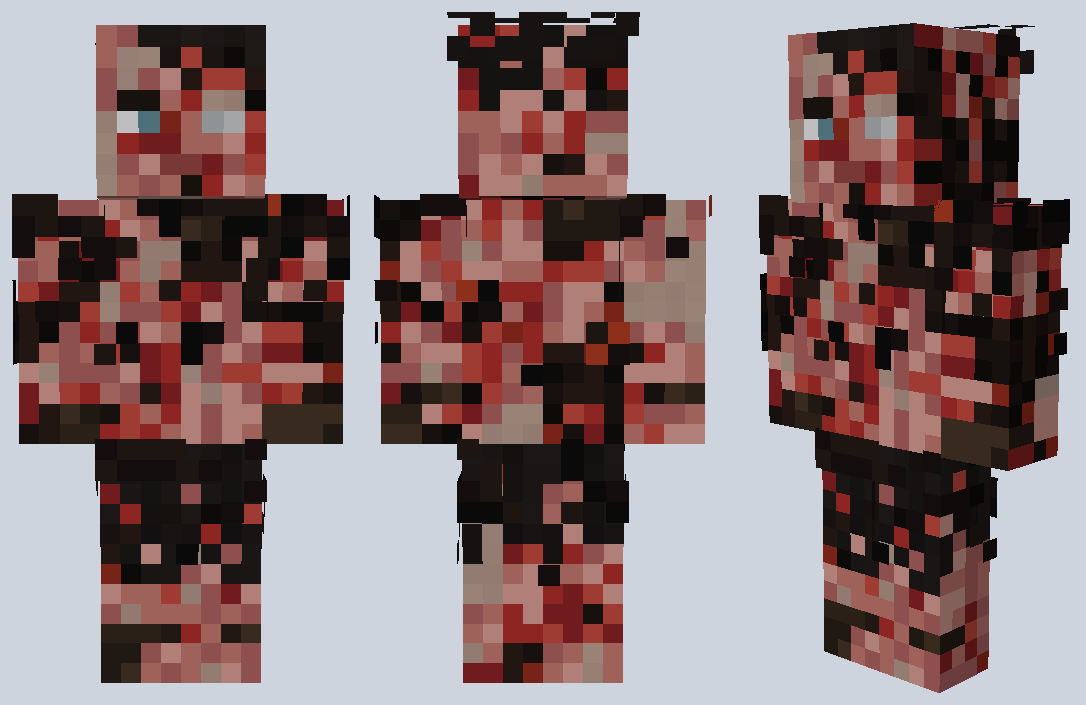
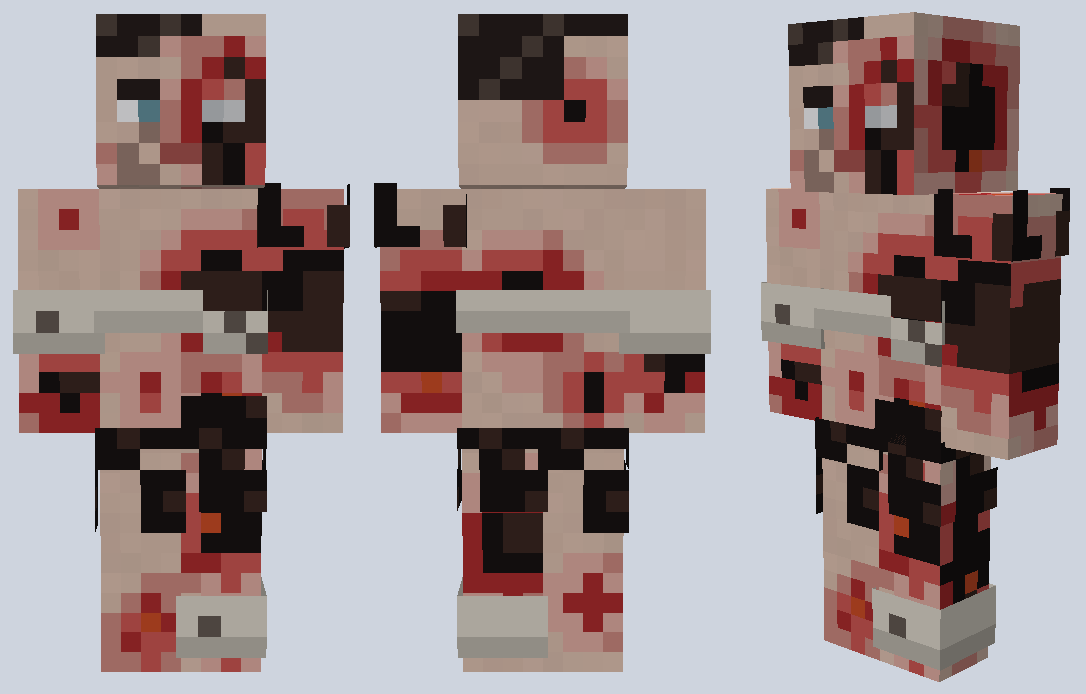
art(bosses): Valet tricorn and queue, structured burn map for Peter

diff --git a/art/bosses/tools/paint_skins.py b/art/bosses/tools/paint_skins.py
@@ -406,121 +406,146 @@ def peter_hale(burned=False):
 
 
 def risen(s):
-    """Peter, burned: third-degree burns dominate. Charred black, red-raw patches and mottled glossy scar
-    tissue, worst on the left side of the face; singed hair; charred trouser rags; only a light film of grave soil."""
-    SKIN = (206, 178, 162)
-    CHAR = [(16, 12, 12), (28, 20, 18), (42, 28, 24)]
-    RAW = [(176, 46, 44), (140, 34, 36), (198, 74, 64)]
-    SCAR = [(198, 122, 114), (176, 100, 98), (220, 160, 150)]
-    for part in ('body', 'rarm', 'larm'):
-        s.fill_part(part, SKIN, 0.04, 5, skin=True)
-    for part in ('rleg', 'lleg'):
-        s.fill_part(part, SKIN, 0.04, 6, skin=True)
+    """Peter, burned (hospital-coma / Season 6 look). Structured burns, 8-colour burn palette:
+    charred black and brown cores with a few ember cracks, raw red and pink wet rims, smooth pale-pink scar
+    tissue, intact skin. Heaviest on the left side of the face (viewer's right), left arm and torso; the right
+    side of the face stays recognisably Peter with dark, partly singed hair. No clothes except burned scraps and
+    gauze bandages (hospital burn-ward look)."""
+    P_INTACT = (214, 186, 170)
+    P_SCAR_L, P_SCAR_M = (218, 168, 158), (198, 132, 124)
+    P_RAW_PINK, P_RAW_RED = (198, 84, 80), (166, 42, 44)
+    P_CHAR_BROWN, P_CHAR_BLACK, P_EMBER = (56, 38, 32), (22, 18, 18), (196, 74, 36)
+    HAIR, HAIR_SINGE = (36, 28, 26), (76, 64, 58)
+    GAUZE, SOOT = (214, 208, 196), (96, 86, 80)
+
+    for part in ('head', 'body', 'rarm', 'larm', 'rleg', 'lleg'):
+        s.fill_part(part, P_INTACT, 0.02, 5, skin=True)
     for part in ('jacket', 'rsleeve', 'lsleeve', 'rpants', 'lpants', 'hat'):
         s.clear_part(part)
 
-    def burn(part, side, lx, ly, bias):
-        fx, fy, fw, fh = s.face(part, side)
-        pos = (fx + lx, fy + ly)
-        if s.px[pos][3] == 0:
-            return
-        f = hsh((fx + lx) // 3, (fy + ly) // 3, 401) * 0.5 + hsh((fx + lx) // 2, (fy + ly) // 2, 402) * 0.32 + hsh(fx + lx, fy + ly, 403) * 0.18 + bias
-        n = int(hsh(fx + lx, fy + ly, 404) * 3) % 3
-        if f < 0.26:
-            c = CHAR[n]
-            if hsh(fx + lx, fy + ly, 405) < 0.1:
-                c = (150, 44, 30)  # ember crack
-        elif f < 0.40:
-            c = RAW[n]
-        elif f < 0.68:
-            c = SCAR[n]
-        else:
-            c = mixc(SKIN, (150, 120, 110), 0.25 + 0.2 * hsh(fx + lx, fy + ly, 406))
-        s.set(part, side, lx, ly, c, 255, False)
+    # burn blobs per face: (cx, cy, radius, strength); level = strength * (1 - dist/radius)
+    B = {
+        ('head', 'front'): [(6.2, 3.8, 4.6, 1.0), (5.5, 6.6, 3.0, 0.9), (1.0, 6.8, 2.2, 0.5), (3.5, 0.5, 2.5, 0.45)],
+        ('head', 'left'): [(3.5, 4.0, 6.0, 1.0)],
+        ('head', 'right'): [(5.0, 6.0, 2.6, 0.5)],
+        ('head', 'top'): [(5.5, 3.5, 4.0, 0.9)],
+        ('head', 'back'): [(5.0, 4.0, 3.6, 0.8)],
+        ('head', 'bottom'): [(5.0, 4.0, 3.5, 0.8)],
+        ('body', 'front'): [(5.5, 4.5, 5.2, 1.0), (2.0, 9.5, 3.4, 0.55), (5.5, 10.0, 3.2, 0.8)],
+        ('body', 'back'): [(2.5, 5.0, 5.0, 0.95), (6.0, 9.5, 3.2, 0.8)],
+        ('body', 'left'): [(2.0, 6.0, 6.5, 1.0)],
+        ('body', 'right'): [(2.0, 5.0, 3.5, 0.6)],
+        ('body', 'top'): [(4.0, 2.0, 3.5, 0.7)],
+        ('larm', 'front'): [(2.0, 5.0, 6.8, 1.0)], ('larm', 'back'): [(2.0, 6.5, 6.5, 1.0)],
+        ('larm', 'left'): [(2.0, 6.0, 7.0, 1.0)], ('larm', 'right'): [(2.0, 5.0, 5.5, 0.9)],
+        ('larm', 'top'): [(2.0, 2.0, 3.0, 0.8)], ('larm', 'bottom'): [(2.0, 2.0, 3.0, 0.9)],
+        ('rarm', 'front'): [(2.0, 9.5, 4.2, 0.85), (2.0, 1.0, 2.6, 0.5)], ('rarm', 'back'): [(2.0, 8.0, 4.5, 0.8)],
+        ('rarm', 'left'): [(2.0, 4.0, 3.5, 0.5)], ('rarm', 'right'): [(2.0, 9.0, 4.0, 0.8)],
+        ('rarm', 'bottom'): [(2.0, 2.0, 3.0, 0.8)],
+        ('lleg', 'front'): [(2.0, 4.0, 5.5, 0.9), (2.0, 10.0, 3.0, 0.7)], ('lleg', 'back'): [(2.0, 5.0, 5.5, 0.9)],
+        ('lleg', 'left'): [(2.0, 6.0, 6.5, 0.95)], ('lleg', 'right'): [(2.0, 8.0, 4.0, 0.7)],
+        ('rleg', 'front'): [(2.0, 9.5, 3.8, 0.7)], ('rleg', 'back'): [(2.0, 8.0, 4.0, 0.6)],
+        ('rleg', 'right'): [(2.0, 8.5, 4.0, 0.6)], ('rleg', 'left'): [(2.0, 4.0, 3.0, 0.4)],
+    }
 
-    def burn_part(part, sides, bias_fn):
-        for side in sides:
+    def level(part, side, lx, ly):
+        fx, fy, fw, fh = s.face(part, side)
+        best = 0.0
+        for cx, cy, r, st in B.get((part, side), []):
+            d = ((lx - cx) ** 2 + (ly - cy) ** 2) ** 0.5
+            best = max(best, st * (1.0 - d / r))
+        return best + (hsh((fx + lx) // 3, (fy + ly) // 3, 501) - 0.5) * 0.08
+
+    def burn_color(part, side, lx, ly):
+        fx, fy, fw, fh = s.face(part, side)
+        L = level(part, side, lx, ly)
+        gx, gy = fx + lx, fy + ly
+        if L > 0.62:
+            if 0.62 < L < 0.8 and hsh(gx, gy, 502) < 0.1:
+                return P_EMBER
+            return P_CHAR_BROWN if hsh(gx // 2, gy // 2, 503) < 0.4 else P_CHAR_BLACK
+        if L > 0.42:
+            return P_RAW_RED if hsh(gx // 2, gy // 2, 504) < 0.45 else P_RAW_PINK
+        if L > 0.22:
+            return P_SCAR_M if hsh(gx // 3, gy // 3, 505) < 0.45 else P_SCAR_L
+        return None
+
+    for part in ('head', 'body', 'rarm', 'larm', 'rleg', 'lleg'):
+        for side in ('top', 'bottom', 'right', 'front', 'left', 'back'):
             fx, fy, fw, fh = s.face(part, side)
             for ly in range(fh):
                 for lx in range(fw):
-                    burn(part, side, lx, ly, bias_fn(side, lx, ly, fw, fh))
-
-    # head: the character's left side of the face (viewer's right) is the ruined one
-    def head_bias(side, lx, ly, fw, fh):
-        b = 0.0
-        if side == 'front':
-            if ly in (3, 4) and lx in (1, 2, 5, 6):
-                return 9.0  # leave brows and eyes (set below)
-            if ly == 6 and lx in (3, 4):
-                return 9.0  # lips
-            b = -0.24 if lx >= 4 else 0.04
-        elif side == 'left':
-            b = -0.28
-        elif side == 'right':
-            b = 0.08
-        elif side == 'top':
-            b = -0.1
-        return b
-    burn_part('head', ('top', 'bottom', 'right', 'front', 'left', 'back'), head_bias)
-    # eyes: right one intact, left one clouded; lips stay readable
+                    if part == 'head' and side == 'front' and ((ly in (3, 4) and lx in (1, 2, 5, 6)) or (ly == 6 and lx in (3, 4))):
+                        continue
+                    c = burn_color(part, side, lx, ly)
+                    if c is not None:
+                        s.set(part, side, lx, ly, c, 255, False)
+    # face details: intact right eye, clouded left eye, brows, lips
     s.set('head', 'front', 1, 4, WHITE); s.set('head', 'front', 2, 4, (96, 140, 152))
-    s.set('head', 'front', 5, 4, (178, 184, 188)); s.set('head', 'front', 6, 4, (204, 206, 208))
-    s.set('head', 'front', 1, 3, (30, 22, 18)); s.set('head', 'front', 2, 3, (30, 22, 18))
-    s.set('head', 'front', 3, 6, (150, 70, 66)); s.set('head', 'front', 4, 6, (150, 70, 66))
-    # singed hair: short charred remnants on the right side, scalp scarring on the left
-    for lx in range(8):
-        for ly in range(1 + lx % 2):
-            if hsh(lx, ly, 410) < 0.7:
-                s.set('head', 'front', lx, ly, shade((34, 28, 26), 0.9 + 0.3 * hsh(lx, ly, 411)))
-    for lx in range(0, 4):
+    s.set('head', 'front', 5, 4, (186, 190, 194)); s.set('head', 'front', 6, 4, (206, 208, 210))
+    s.set('head', 'front', 1, 3, HAIR); s.set('head', 'front', 2, 3, HAIR)
+    s.set('head', 'front', 5, 3, P_RAW_PINK); s.set('head', 'front', 6, 3, P_SCAR_M)
+    s.set('head', 'front', 3, 6, (160, 80, 76)); s.set('head', 'front', 4, 6, (160, 80, 76))
+    # hair: dark on the right side, partly singed (grey-brown tips); scalp on the left is burned bare
+    for lx in range(0, 5):
+        for ly in range(0, 2 if lx < 3 else 1):
+            s.set('head', 'front', lx, ly, HAIR if (lx + ly) % 3 else HAIR_SINGE)
+    for lx in range(0, 5):
         for ly in range(8):
-            if hsh(lx, ly, 412) < 0.6:
-                s.set('head', 'top', lx, ly, shade((30, 24, 22), 0.9 + 0.3 * hsh(lx, ly, 413)))
-    for ly in range(0, 4):
-        for lx in range(8):
-            if hsh(lx, ly, 414) < 0.45:
-                s.set('head', 'back', lx, ly, (26, 22, 22))
-    for ly in range(0, 2):
-        for lx in range(8):
-            if hsh(lx, ly, 415) < 0.3:
-                s.set('hat', 'top', lx, ly, (22, 20, 20))
-                s.set('hat', 'back', lx, ly, (28, 24, 22))
-    # torso and arms: worst on the left side (viewer's right) and at the hands
-    burn_part('body', ('top', 'bottom', 'right', 'front', 'left', 'back'), lambda side, lx, ly, fw, fh: -0.06 + (-0.12 if (side == 'front' and lx >= 4) else 0) + 0.1 * (ly / fh) * 0)
-    burn_part('rarm', ('top', 'bottom', 'right', 'front', 'left', 'back'), lambda side, lx, ly, fw, fh: -0.02 - (0.18 if ly >= 9 else 0))
-    burn_part('larm', ('top', 'bottom', 'right', 'front', 'left', 'back'), lambda side, lx, ly, fw, fh: -0.14 - (0.18 if ly >= 9 else 0))
-    # legs: charred trouser rags above, burned skin below
-    for part in ('rleg', 'lleg'):
-        burn_part(part, ('top', 'bottom', 'right', 'front', 'left', 'back'), lambda side, lx, ly, fw, fh: -0.08)
+            s.set('head', 'top', lx, ly, HAIR if ly % 4 else HAIR_SINGE)
+    for lx in range(0, 8):
+        for ly in range(0, 4):
+            if lx < 5 or ly < 1:
+                s.set('head', 'back', lx, ly, HAIR if (lx + ly) % 4 else HAIR_SINGE)
+    for lx in range(0, 6):
+        for ly in range(0, 3):
+            s.set('head', 'right', lx, ly, HAIR if ly < 2 else HAIR_SINGE)
+    # light stubble on the intact right jaw only
+    for ly in (5, 6, 7):
+        for lx in (0, 1, 2):
+            if hsh(lx, ly, 510) < 0.55:
+                s.set('head', 'front', lx, ly, (150, 122, 112))
+    # burned scraps and gauze: second layer
+    # torso: charred remnant of a shirt over the left hip, gauze wrap across the chest
+    for ly in range(8, 12):
+        for lx in range(4, 8):
+            if hsh(lx // 2, ly // 2, 512) < 0.75:
+                s.set('jacket', 'front', lx, ly, P_CHAR_BLACK if hsh(lx, ly, 513) < 0.6 else P_CHAR_BROWN)
+    for lx in range(0, 8):
+        s.set('jacket', 'front', lx, 5 + (1 if lx > 4 else 0), GAUZE); s.set('jacket', 'front', lx, 6 + (1 if lx > 4 else 0), shade(GAUZE, 0.88))
+    for side in ('left', 'right'):
+        for lx in range(4):
+            s.set('jacket', side, lx, 5, GAUZE); s.set('jacket', side, lx, 6, shade(GAUZE, 0.88))
+    for lx in range(0, 8):
+        s.set('jacket', 'back', lx, 5, GAUZE); s.set('jacket', 'back', lx, 6, shade(GAUZE, 0.88))
+    s.set('jacket', 'front', 6, 6, SOOT); s.set('jacket', 'front', 7, 7, SOOT)
+    # right forearm: gauze wrap; left sleeve: a charred scrap at the shoulder
+    for side in SIDES:
+        fw = s.face('rsleeve', side)[2]
+        for lx in range(fw):
+            for ly in (5, 6, 7):
+                s.set('rsleeve', side, lx, ly, GAUZE if ly != 7 else shade(GAUZE, 0.85))
+    s.set('rsleeve', 'front', 1, 6, SOOT)
+    for side in SIDES:
+        fw = s.face('lsleeve', side)[2]
+        for lx in range(fw):
+            for ly in range(0, 3):
+                if hsh(lx, ly, 514) < 0.8:
+                    s.set('lsleeve', side, lx, ly, P_CHAR_BLACK if hsh(lx, ly, 515) < 0.6 else P_CHAR_BROWN)
+    # legs: charred scraps of trousers at the hips and left thigh, gauze round the left shin
+    for part in ('rpants', 'lpants'):
         for side in SIDES:
             fw = s.face(part, side)[2]
-            for ly in range(0, 7):
+            for ly in range(0, 5):
                 for lx in range(fw):
-                    if hsh(lx, ly, 420 + len(side)) > ly * 0.1:
-                        s.set(part, side, lx, ly, shade((26, 22, 22), 0.9 + 0.5 * hsh(lx, ly, 421)))
-    # second layer: charred tatters of the shirt, coat and trousers, still glowing in places
-    TAT = [(14, 12, 12), (24, 18, 16), (36, 26, 22)]
-    for part, rows, p in (('jacket', 12, 0.34), ('rsleeve', 8, 0.4), ('lsleeve', 7, 0.4), ('rpants', 7, 0.34), ('lpants', 7, 0.42)):
-        for side in SIDES:
-            fx, fy, fw, fh = s.face(part, side)
-            for ly in range(rows):
-                for lx in range(fw):
-                    n = hsh((fx + lx) // 2, (fy + ly) // 2, 430) * 0.6 + hsh(fx + lx, fy + ly, 431) * 0.4
-                    if n < p * (1.3 - ly / max(1, rows)) * (0.9 if part == 'jacket' else 1.0):
-                        c = TAT[int(hsh(fx + lx, fy + ly, 432) * 3) % 3]
-                        if hsh(fx + lx, fy + ly, 433) < 0.07:
-                            c = (176, 60, 34)
-                        s.set(part, side, lx, ly, c)
-    # light film of grave soil on the lower legs, hands and shoulders only
-    MUD = [(40, 30, 24), (54, 40, 30), (70, 52, 38)]
-    for part in ('rleg', 'lleg', 'rarm', 'larm', 'body'):
-        for side in ('right', 'front', 'left', 'back'):
-            fx, fy, fw, fh = s.face(part, side)
-            for ly in range(fh):
-                for lx in range(fw):
-                    low = ly >= 9 if part != 'body' else ly <= 1
-                    if s.px[fx + lx, fy + ly][3] and low and hsh((fx + lx) // 2, (fy + ly) // 2, 440) < 0.35:
-                        s.set(part, side, lx, ly, MUD[int(hsh(fx + lx, fy + ly, 441) * 3) % 3])
+                    if hsh((lx + (0 if part == 'rpants' else 7)) // 2, ly // 2, 516) < (0.85 - ly * 0.14) * (1.0 if part == 'lpants' else 0.7):
+                        s.set(part, side, lx, ly, P_CHAR_BLACK if hsh(lx, ly, 517) < 0.65 else P_CHAR_BROWN)
+    for side in SIDES:
+        fw = s.face('lpants', side)[2]
+        for lx in range(fw):
+            for ly in (8, 9, 10):
+                s.set('lpants', side, lx, ly, GAUZE if ly != 10 else shade(GAUZE, 0.85))
+    s.set('lpants', 'front', 1, 9, SOOT)
 
 
 def kol():
@@ -810,26 +835,33 @@ def sebastien_valet():
     tricorn, greyish-white coat with blue cuffs, buff waistcoat, black cravat, buff breeches, black gaiters."""
     s = Skin(False, 909)
     SK, HAIR = (214, 170, 136), (52, 36, 28)
-    head(s, SK, HAIR, (84, 58, 40), brow=(40, 28, 22), lips=(168, 92, 82), hair_rows=1, fringe=0.4, back_rows=6, side_rows=4, hair_amp=0.12)
-    stubble(s, SK, 0.5)
-    for ly in (6, 7):  # light stubble and a shaved chin line
-        for lx in (2, 5):
-            s.set('head', 'front', lx, ly, mixc(SK, (92, 66, 52), 0.35), skin=True)
-    # natural hair, queued at the nape with a black ribbon
-    for ly in range(5, 8):
-        s.set('hat', 'back', 3, ly, shade(HAIR, 1.1 if ly % 2 else 0.9)); s.set('hat', 'back', 4, ly, shade(HAIR, 0.9 if ly % 2 else 1.1))
-    s.rect('hat', 'back', 3, 4, 2, 1, (22, 20, 24))
-    # black tricorn: felt crown, silver-white lace edge, brass-and-white cockade
-    FELT, LACE, COCK = (28, 26, 30), (212, 210, 204), (226, 222, 214)
+    head(s, SK, HAIR, (84, 58, 40), brow=(40, 28, 22), lips=(168, 92, 82), hair_rows=1, fringe=0.4, back_rows=4, side_rows=4, hair_amp=0.12)
+    stubble(s, SK, 0.22)  # light stubble only
+    # natural hair pulled back and tied into a queue (ponytail): black ribbon at the nape, tail hangs on the coat back
+    RIB = (20, 18, 22)
+    for lx in (3, 4):
+        for ly in range(4, 8):
+            s.set('hat', 'back', lx, ly, shade(HAIR, 0.85 + 0.3 * ((lx + ly) % 2)))
+    s.rect('hat', 'back', 3, 4, 2, 1, RIB); s.set('hat', 'back', 2, 4, shade(RIB, 1.8)); s.set('hat', 'back', 5, 4, shade(RIB, 1.8))  # ribbon and bow
+    # tricorn: black felt, silver-white lace edge, three upturned points (front and both back corners)
+    FELT, LACE, COCK = (26, 24, 28), (226, 224, 218), (240, 238, 232)
+    edge = {'front': [3, 2, 2, 1, 1, 2, 2, 3], 'back': [3, 3, 2, 1, 1, 2, 3, 3],
+            'right': [1, 2, 3, 3, 3, 3, 2, 1], 'left': [1, 2, 3, 3, 3, 3, 2, 1]}
+    for side, prof in edge.items():
+        for lx in range(8):
+            e = prof[lx]
+            for ly in range(0, e + 1):
+                if ly == e and e > 0:
+                    s.set('hat', side, lx, ly, LACE)
+                elif ly < e:
+                    s.set('hat', side, lx, ly, shade(FELT, 1.0 + 0.12 * hsh(lx, ly, 3)))
     for lx in range(8):
         for ly in range(8):
-            s.set('hat', 'top', lx, ly, shade(FELT, 1.0 + 0.15 * hsh(lx, ly, 3)))
-        s.set('hat', 'front', lx, 0, FELT); s.set('hat', 'front', lx, 1, FELT)
-    for side in ('right', 'left', 'back'):
-        for lx in range(8):
-            s.set('hat', side, lx, 0, FELT); s.set('hat', side, lx, 1, FELT); s.set('hat', side, lx, 2, LACE if lx % 2 == 0 else FELT)
-    s.rect('hat', 'right', 5, 0, 2, 2, COCK); s.set('hat', 'right', 6, 1, (190, 154, 64))
-    s.rect('hat', 'left', 1, 0, 2, 2, COCK); s.set('hat', 'left', 1, 1, (190, 154, 64))
+            border = lx in (0, 7) or ly in (0, 7)
+            s.set('hat', 'top', lx, ly, LACE if border else shade(FELT, 1.0 + 0.12 * hsh(lx, ly, 4)))
+    for lx in range(1, 7):  # crown fold lines on top
+        s.set('hat', 'top', lx, 3, shade(FELT, 1.5)); s.set('hat', 'top', lx, 4, shade(FELT, 1.5))
+    s.rect('hat', 'right', 5, 0, 2, 2, COCK); s.set('hat', 'right', 6, 1, (190, 154, 64))  # cockade
     COAT, CUFF, BUTTON, WAIST, BREECH = (190, 182, 162), (52, 76, 124), (192, 156, 66), (204, 184, 138), (196, 180, 150)
     CRAV, GAIT = (30, 28, 34), (30, 28, 30)
     body_cloth(s, WAIST, amp=0.05, seed=91, weave=1)
@@ -865,6 +897,11 @@ def sebastien_valet():
     for side in ('right', 'left', 'back'):
         s.hband('jacket', 11, shade(COAT, 0.85), sides=(side,))
     s.rect('jacket', 'back', 3, 6, 2, 6, CUFF)  # blue-lined back vent
+    for ly in range(0, 6):  # the queue hanging over the collar
+        for lx in (3, 4):
+            s.set('jacket', 'back', lx, ly, shade(HAIR, 0.85 + 0.3 * ((lx + ly) % 2)))
+    s.rect('jacket', 'back', 2, 5, 4, 1, RIB)
+    s.set('jacket', 'back', 2, 6, RIB); s.set('jacket', 'back', 5, 6, RIB)
     # white buff-leather cross-belt and a black cartridge box on the left hip
     BELT = (226, 218, 198)
     for i in range(9):

diff --git a/art/bosses/README.md b/art/bosses/README.md
@@ -21,8 +21,8 @@ All art is original. Wikis, show descriptions and fan skins were used as inspira
 | `freya.png` | **slim arms** | brown leather jacket over a charcoal top, dark jeans, black boots; long dirty-blonde hair, green eyes, smoky liner | pendant on a cord. Possible future NPC/boss |
 | `deucalion_human.png` | player | dark charcoal knit sweater with vertical ribs, lighter grey textured shawl collar and shoulder panels, dark trousers; short swept dirty-blond hair, blue eyes | no coat, cane or glasses |
 | `peter_hale.png` | player | camel wool overcoat (lapels, open) over a dark grey herringbone waistcoat and a white open-collar shirt, dark trousers; slicked-back dark hair, short trimmed beard and stubble (mouth visible), blue-green eyes | coat to knee level on the pants layers, charcoal trousers and dark shoes below |
-| `peter_hale_burned.png` | player | third-degree burns dominate: charred black patches with ember cracks, red-raw skin, mottled glossy scar tissue; worst on the left side of the face (viewer's right), one clouded eye | singed hair remnants, charred trouser rags and tatters on the second layer, only a light film of grave soil on the lower legs, hands and shoulders |
-| `sebastien_valet.png` | player | French line-infantry soldier of the 1760s: undyed greyish-white wool coat with blue cuffs and turn-backs and brass buttons, buff waistcoat, black cravat, white buff cross-belt, buff breeches, black gaiters; black tricorn with silver edging; natural dark hair queued with a black ribbon | healthy tan skin, brown eyes, light stubble (no powder wig, no pale vampire look); a little campaign dirt on the coat |
+| `peter_hale_burned.png` | player | hospital-coma / Season 6 burn look, 8-colour burn palette: charred black and brown cores with ember cracks, raw red and pink rims, smooth pale-pink scar tissue, intact skin | burns are connected regions, heaviest on the left side of the face (viewer's right, clouded eye), left arm and torso; right face stays recognisably Peter with dark, partly singed hair. No clothes except burned scraps (left hip, shoulder, thighs) and gauze bandages (chest, right forearm, left shin), all on the second layer |
+| `sebastien_valet.png` | player | French line-infantry soldier of the 1760s: undyed greyish-white wool coat with blue cuffs and turn-backs and brass buttons, buff waistcoat, black cravat, white buff cross-belt, buff breeches, black gaiters | black tricorn on the hat layer (silver-white lace edge, raised front and sides, cockade); natural dark hair tied in a queue with a black ribbon at the nape, tail and bow hanging on the coat back; clean face with light stubble; healthy tan skin, no pale vampire look |
 | `beast_host.png` | player | linen button-up shirt, brown vest, grey trousers; medium-brown skin, dark brown eyes, short dark brown hair | the Beast's host, Mason Hewitt in the show; village clothes for the mod |
 
 ## Werewolf-model textures (128×64)
@@ -51,6 +51,8 @@ All four use the Werewolves mod beast model (`WerewolfBeastModel`) UV layout exa
 - **Klaus's hybrid form** — vampirediaries.fandom.com/wiki/Hybrid (werewolf eyes and fangs, never a clearly shown full wolf), reddit.com/r/TheOriginals (yellow eyes, black veins).
 
 ### Round 5 sources (extra checks)
+
+- **Burned Peter clothing choice** — the sources say he was left in a long-term care facility burned over 75% of his body (hospital/coma look) and was burned head to toe again in Season 6; so he is bare except burned scraps and gauze bandages, as in a burn ward.
 
 - **Sebastien Valet** — tvline.com/casting-news/teen-wolf-spoilers-gilles-marini-lachlan-buchanan-cast-flashback-episode-674061 and greekreporter.com/2016/01/18/gilles-marini-to-guest-star-in-teen-wolf (a French soldier returning home to Gévaudan; played by Gilles Marini), yahoo.com/entertainment/teen-wolf-recap-maid-g-032500374.html and thesupernaturalfoxsisters.com/2016/02/24/teen-wolf-s05e18-recap-maid-of-gevaudan (wounded soldiers Sebastien and Marcel in 1760 French North America, then the Gévaudan tavern), teenwolf.fandom.com/wiki/La_Bête_du_Gévaudan ("an 18th century soldier"), fortticonderoga.org/news/understanding-french-army-uniforms and militaryheritage.com/charts/7warchtf.htm (French line infantry: greyish-white collarless coat, coloured cuffs, tricorn, white cross-belts). Takeaway: a soldier, not a vampire or a powdered aristocrat; no stills could be opened, so the cut follows the historical uniform.
 - **Peter Hale, burned** — teen-wolf-pack.fandom.com/wiki/Peter_Hale (third-degree burns over 75% of his body; "burned from head to toe" leaving the train station), haleyeaianbohen.tumblr.com (his face was burned on the left side), tvline.com Season 6 Episode 5 recap (charred, burning body in the woods), imdb.com Radio Silence trivia (third time he is burned). Takeaway: charred and red-raw patches, mottled scar tissue, left face worst.
